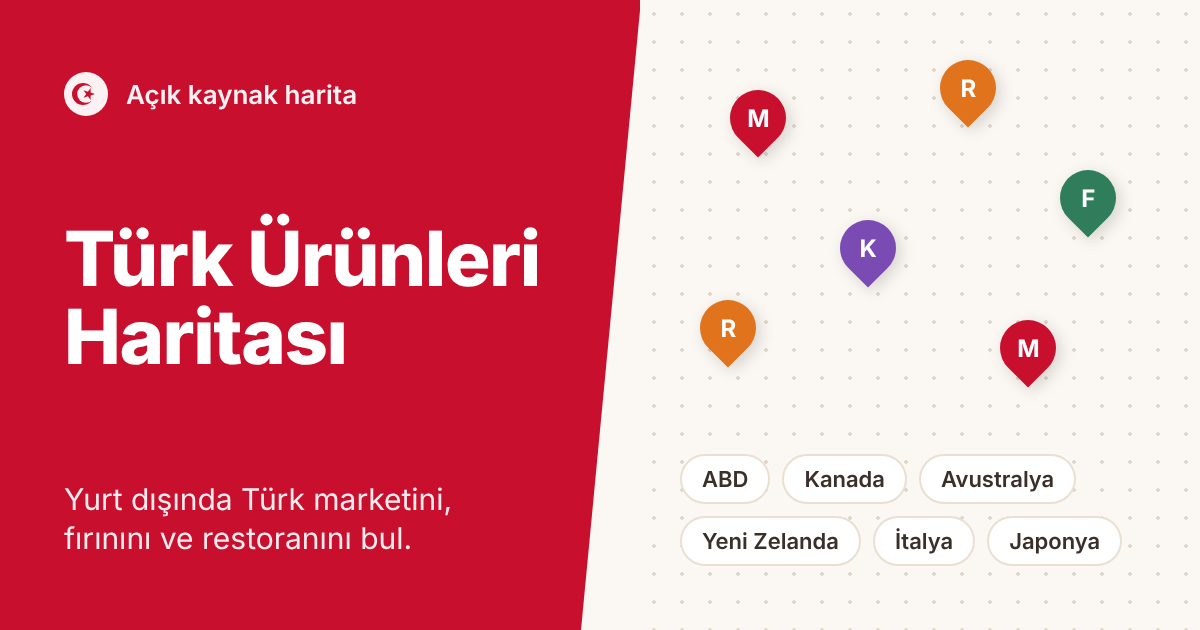
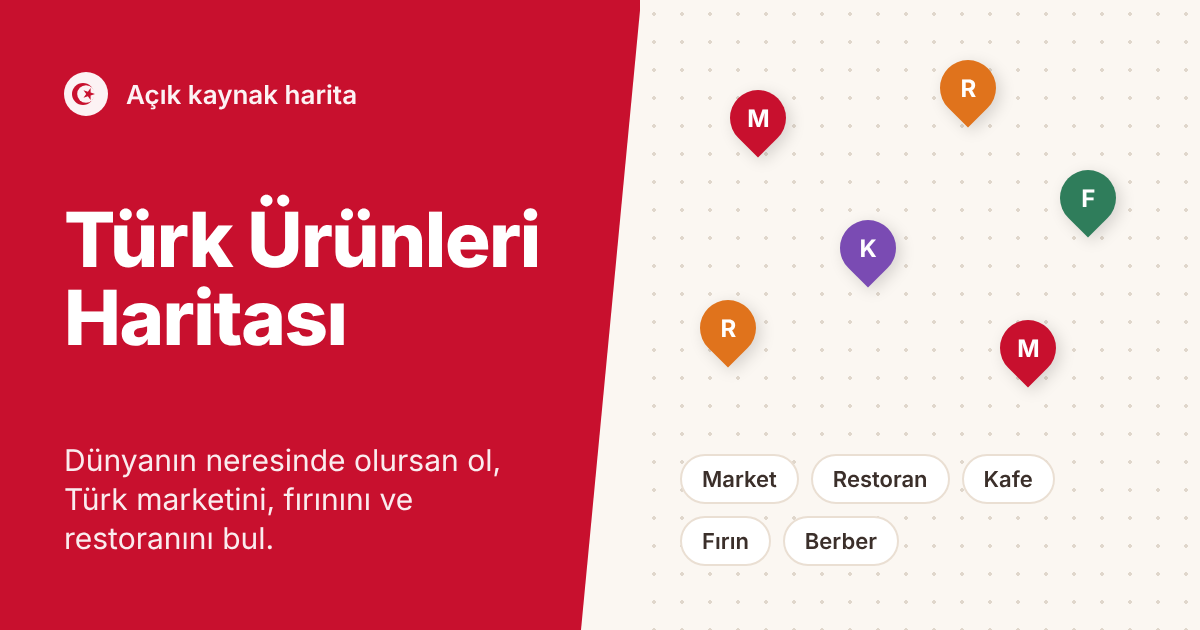
Paylaşım görseli: ülke listesi yerine yer türleri
Ülke listesi her yeni ülkede eskiyordu (Fransa ve Almanya eksikti).
Görsel ve açıklama artık ülke saymıyor. Görselin kaynağı
design/og-card.html olarak eklendi.

Claude-Session: https://claude.ai/code/session_016c3WR7K4JkYVS1d6Q4iTEj

diff --git a/design/og-card.html b/design/og-card.html
@@ -1,0 +1,30 @@
+<!doctype html><html><head><meta charset="utf-8"><style>
+*{margin:0;box-sizing:border-box}
+body{width:1200px;height:630px;font-family:"Inter","DejaVu Sans",system-ui,sans-serif;background:#fbf7f2;display:flex;overflow:hidden}
+.left{width:640px;background:#c8102e;color:#fff;padding:72px 64px;display:flex;flex-direction:column;justify-content:space-between;position:relative}
+.left:after{content:"";position:absolute;right:-1px;top:0;bottom:0;width:60px;background:#fbf7f2;clip-path:polygon(100% 0,100% 100%,0 100%)}
+.mark{display:flex;align-items:center;gap:18px;font-size:26px;font-weight:600;opacity:.95}
+h1{font-size:76px;line-height:1.02;font-weight:800;letter-spacing:-1.5px}
+p{font-size:30px;line-height:1.3;opacity:.92;max-width:470px}
+.right{flex:1;position:relative}
+.pin{position:absolute;width:56px;height:56px;border-radius:50% 50% 50% 0;transform:rotate(-45deg);display:flex;align-items:center;justify-content:center;box-shadow:0 6px 16px rgba(0,0,0,.15)}
+.pin span{transform:rotate(45deg);font-size:24px;font-weight:700;color:#fff}
+.grid{position:absolute;inset:0;background-image:radial-gradient(#d9cfc3 1.6px,transparent 1.6px);background-size:28px 28px;opacity:.8}
+.tags{position:absolute;left:40px;right:48px;bottom:64px;display:flex;flex-wrap:wrap;gap:12px}
+.tag{background:#fff;border:2px solid #eadfd3;border-radius:999px;padding:10px 20px;font-size:22px;color:#3b2f2a;font-weight:600}
+</style></head><body>
+<div class="left">
+ <div class="mark"><svg width="44" height="44" viewBox="0 0 44 44"><circle cx="22" cy="22" r="22" fill="#fff"/><circle cx="19" cy="22" r="11" fill="#c8102e"/><circle cx="22" cy="22" r="8.8" fill="#fff"/><polygon fill="#c8102e" points="31,22 26.6,23.4 26.6,28 23.9,24.3 19.5,25.7 22.2,22 19.5,18.3 23.9,19.7 26.6,16 26.6,20.6"/></svg>Açık kaynak harita</div>
+ <h1>Türk Ürünleri Haritası</h1>
+ <p>Dünyanın neresinde olursan ol, Türk marketini, fırınını ve restoranını bul.</p>
+</div>
+<div class="right"><div class="grid"></div>
+ <div class="pin" style="left:90px;top:90px;background:#c8102e"><span>M</span></div>
+ <div class="pin" style="left:300px;top:60px;background:#e0731c"><span>R</span></div>
+ <div class="pin" style="left:420px;top:170px;background:#2f7d5b"><span>F</span></div>
+ <div class="pin" style="left:200px;top:220px;background:#7a4bb3"><span>K</span></div>
+ <div class="pin" style="left:60px;top:300px;background:#e0731c"><span>R</span></div>
+ <div class="pin" style="left:360px;top:320px;background:#c8102e"><span>M</span></div>
+ <div class="tags"><span class="tag">Market</span><span class="tag">Restoran</span><span class="tag">Kafe</span><span class="tag">Fırın</span><span class="tag">Berber</span></div>
+</div>
+</body></html>

diff --git a/index.html b/index.html
@@ -9,7 +9,7 @@
   <meta property="og:type" content="website">
   <meta property="og:site_name" content="Türk Ürünleri Haritası">
   <meta property="og:title" content="Türk Ürünleri Haritası">
-  <meta property="og:description" content="Yurt dışında Türk marketini, fırınını ve restoranını bul. ABD, Kanada, Avustralya, Yeni Zelanda, İtalya ve Japonya.">
+  <meta property="og:description" content="Dünyanın neresinde olursan ol, Türk marketini, fırınını ve restoranını bul.">
   <meta property="og:url" content="https://cancankocacan.github.io/turk-urunleri-haritasi/">
   <meta property="og:image" content="https://cancankocacan.github.io/turk-urunleri-haritasi/og-image.png">
   <meta property="og:image:width" content="1200">
